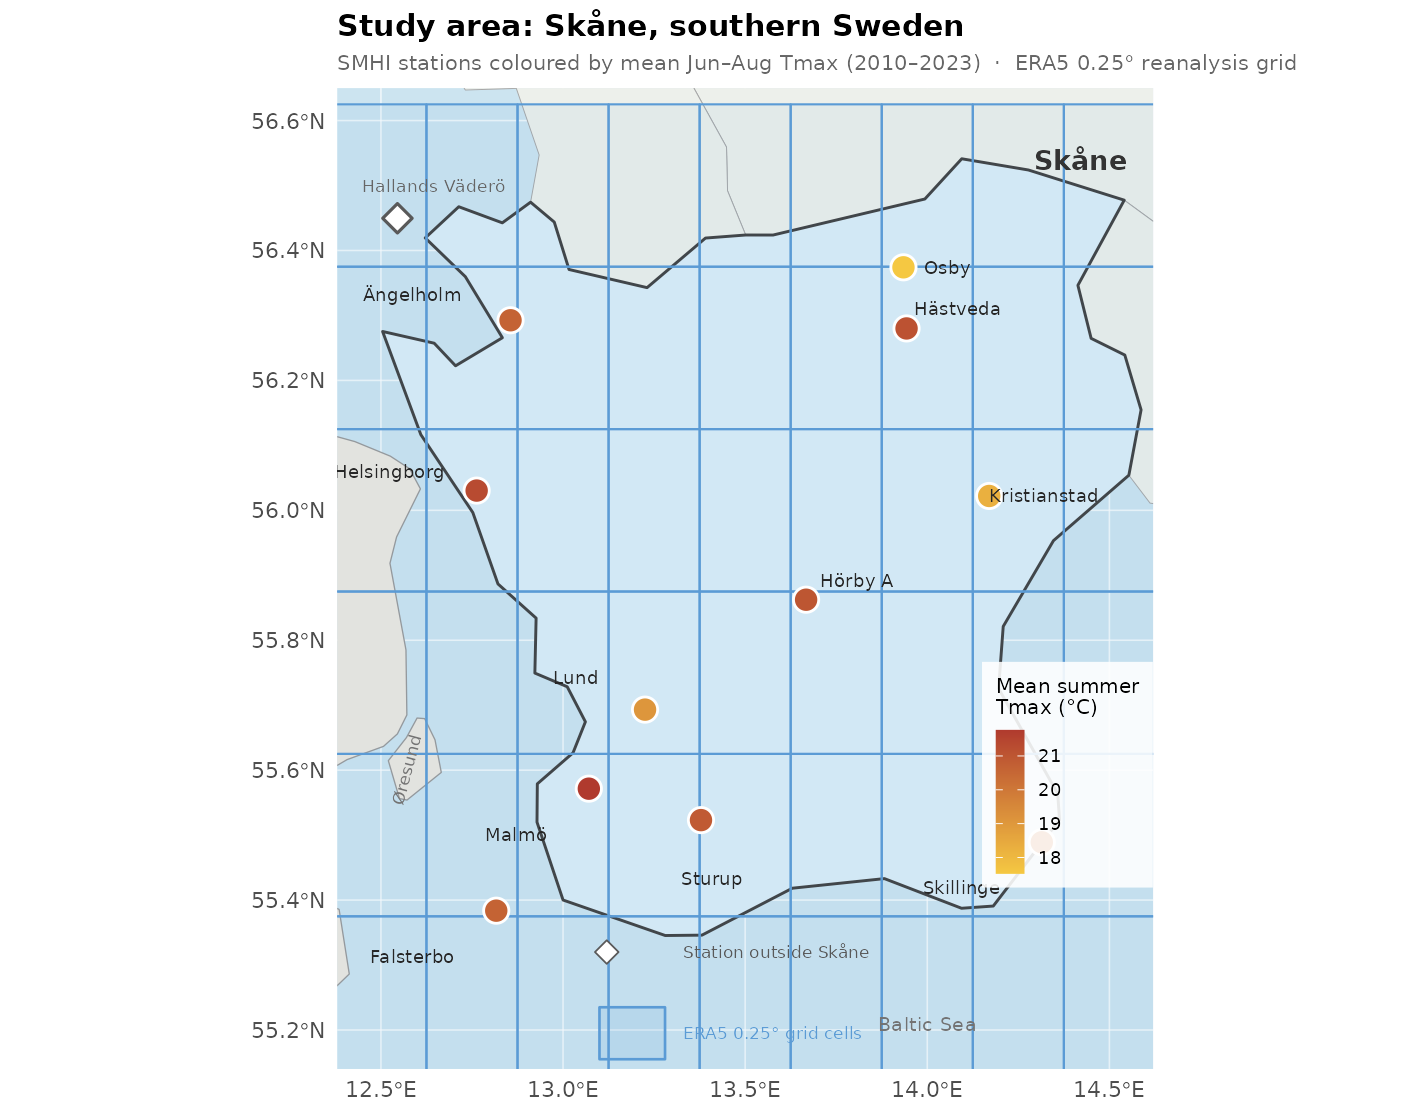
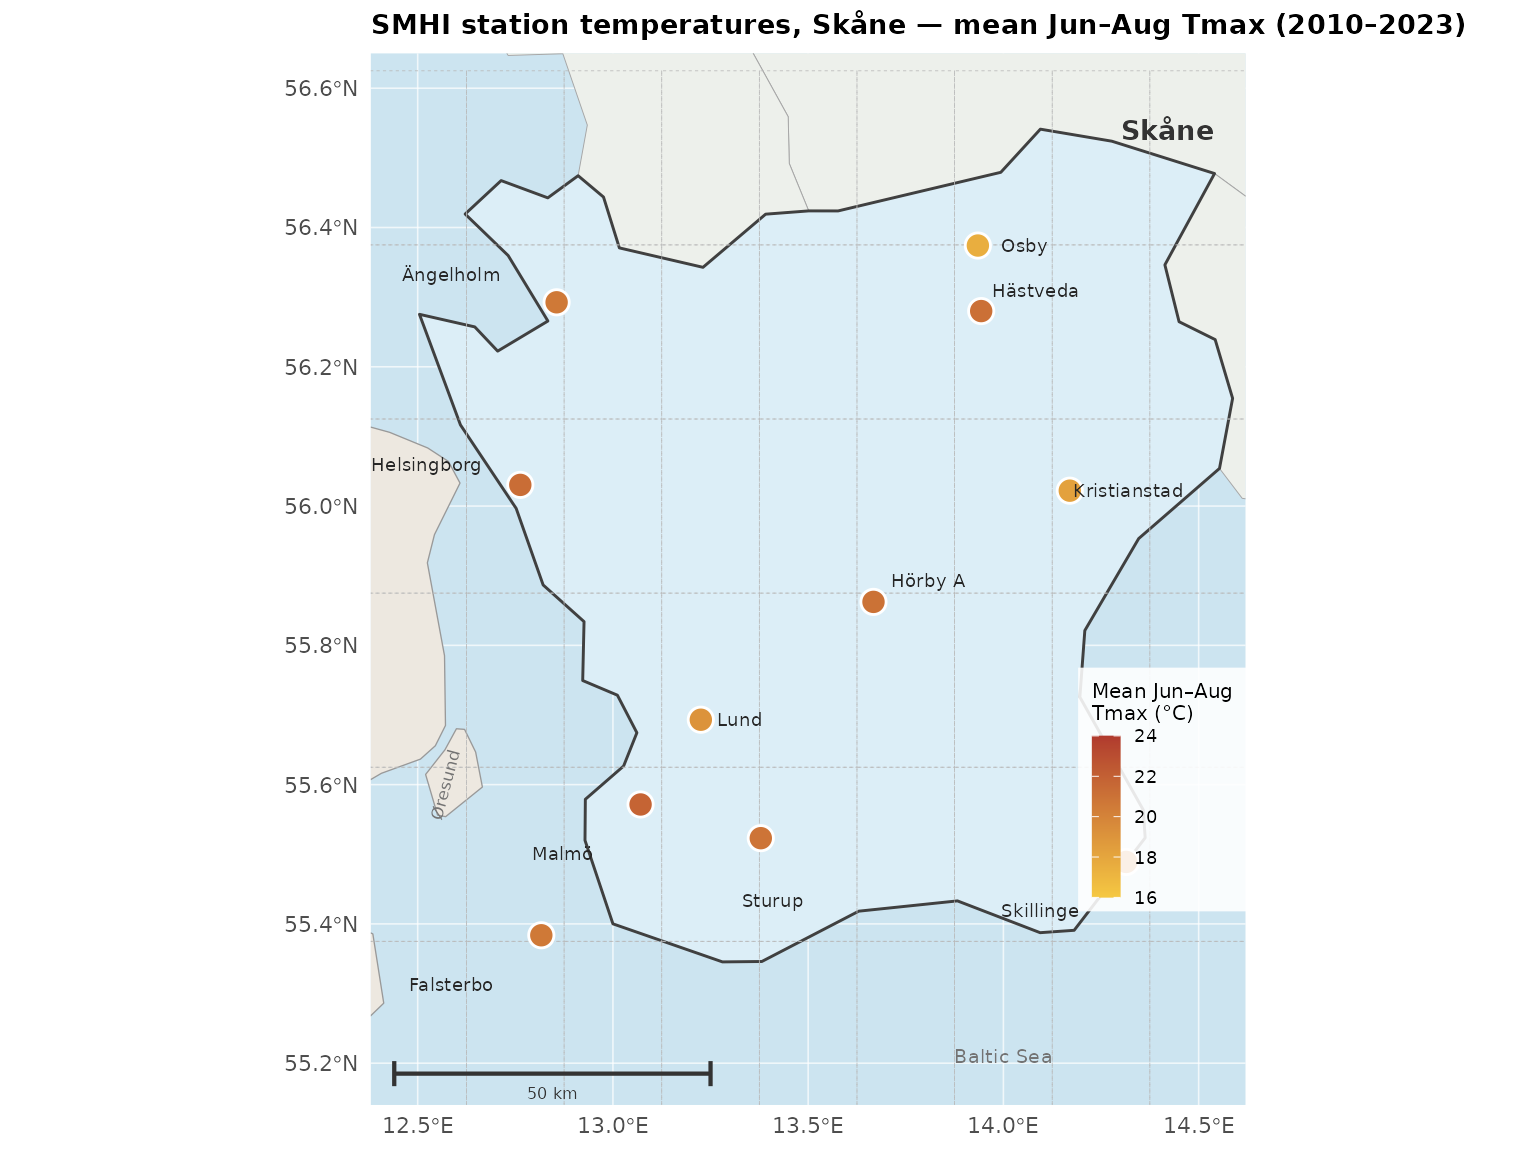
Revise study area map based on reviewer critique
- ERA5 grid: replaced dominant blue fill with faint dashed grey (fill=NA,
  colour="grey72", linewidth=0.15) so it reads as background context
- Colour scale: widened limits to 16–24°C so the 1–2°C coastal gradient
  is proportionate, not alarming
- Scale bar: added 50 km manual annotation at bottom-left
- Removed Hallands Väderö (outside-Skåne station) from main panel
- Dropped conflicting subtitle and manual blue ERA5 legend entries
- Title rewritten as a plain factual statement
- Figure width increased to 8.5 × 6.4 in to prevent title clipping
- Caption in project_aims.md shortened to three sentences

diff --git a/project_aims.md b/project_aims.md
@@ -57,7 +57,7 @@ Skåne (Scania), Sweden's southernmost region (~11,000 km²), serves as the prim
 
 ![Study area map: Skåne with SMHI stations and ERA5 grid](figures/fig_01_study_area.png)
 
-*Figure 1. Study area map showing three overlapping layers. **Background**: Skåne (light blue) within southern Sweden, with Denmark and Germany visible to the south and west; the surrounding water areas are the Øresund strait and the Baltic Sea. **Grid**: blue-outlined rectangles are the 54 ERA5 0.25° grid cells (~25 × 25 km each) covering Skåne — every RELOC-AGE residential address is assigned temperature data from the cell it falls in. **Stations**: filled circles are the 12 active SMHI ground weather stations within Skåne, coloured from yellow (cooler) to dark red (warmer) by their mean June–August daily maximum temperature averaged over 2010–2023. Coastal western stations (Malmö, Helsingborg, Falsterbo) are consistently 1–2 °C warmer in summer than inland and northern sites, reflecting urban heat and the moderating influence of Øresund. The hollow diamond (Hallands Väderö, italic label) is an SMHI station in the neighbouring county of Halland that monitors conditions just north of the Skåne border.*
+*Figure 1. Skåne (light blue) within southern Sweden, showing the 12 active SMHI weather stations coloured by mean June–August daily maximum temperature (2010–2023; yellow = cooler, dark red = warmer; scale 16–24 °C). Faint dashed grey lines mark the ERA5 0.25° reanalysis grid cells (~25 × 25 km), which provide complete spatial temperature coverage; each RELOC-AGE residential address is assigned to the cell it falls in. Coastal western sites (Malmö, Helsingborg, Falsterbo) are 1–2 °C warmer in summer than inland stations, reflecting urban heat and proximity to Øresund.*
 
 ![Annual thermal-stress days in Skåne 2010–2023](figures/fig_02_heatwave.png)
 
